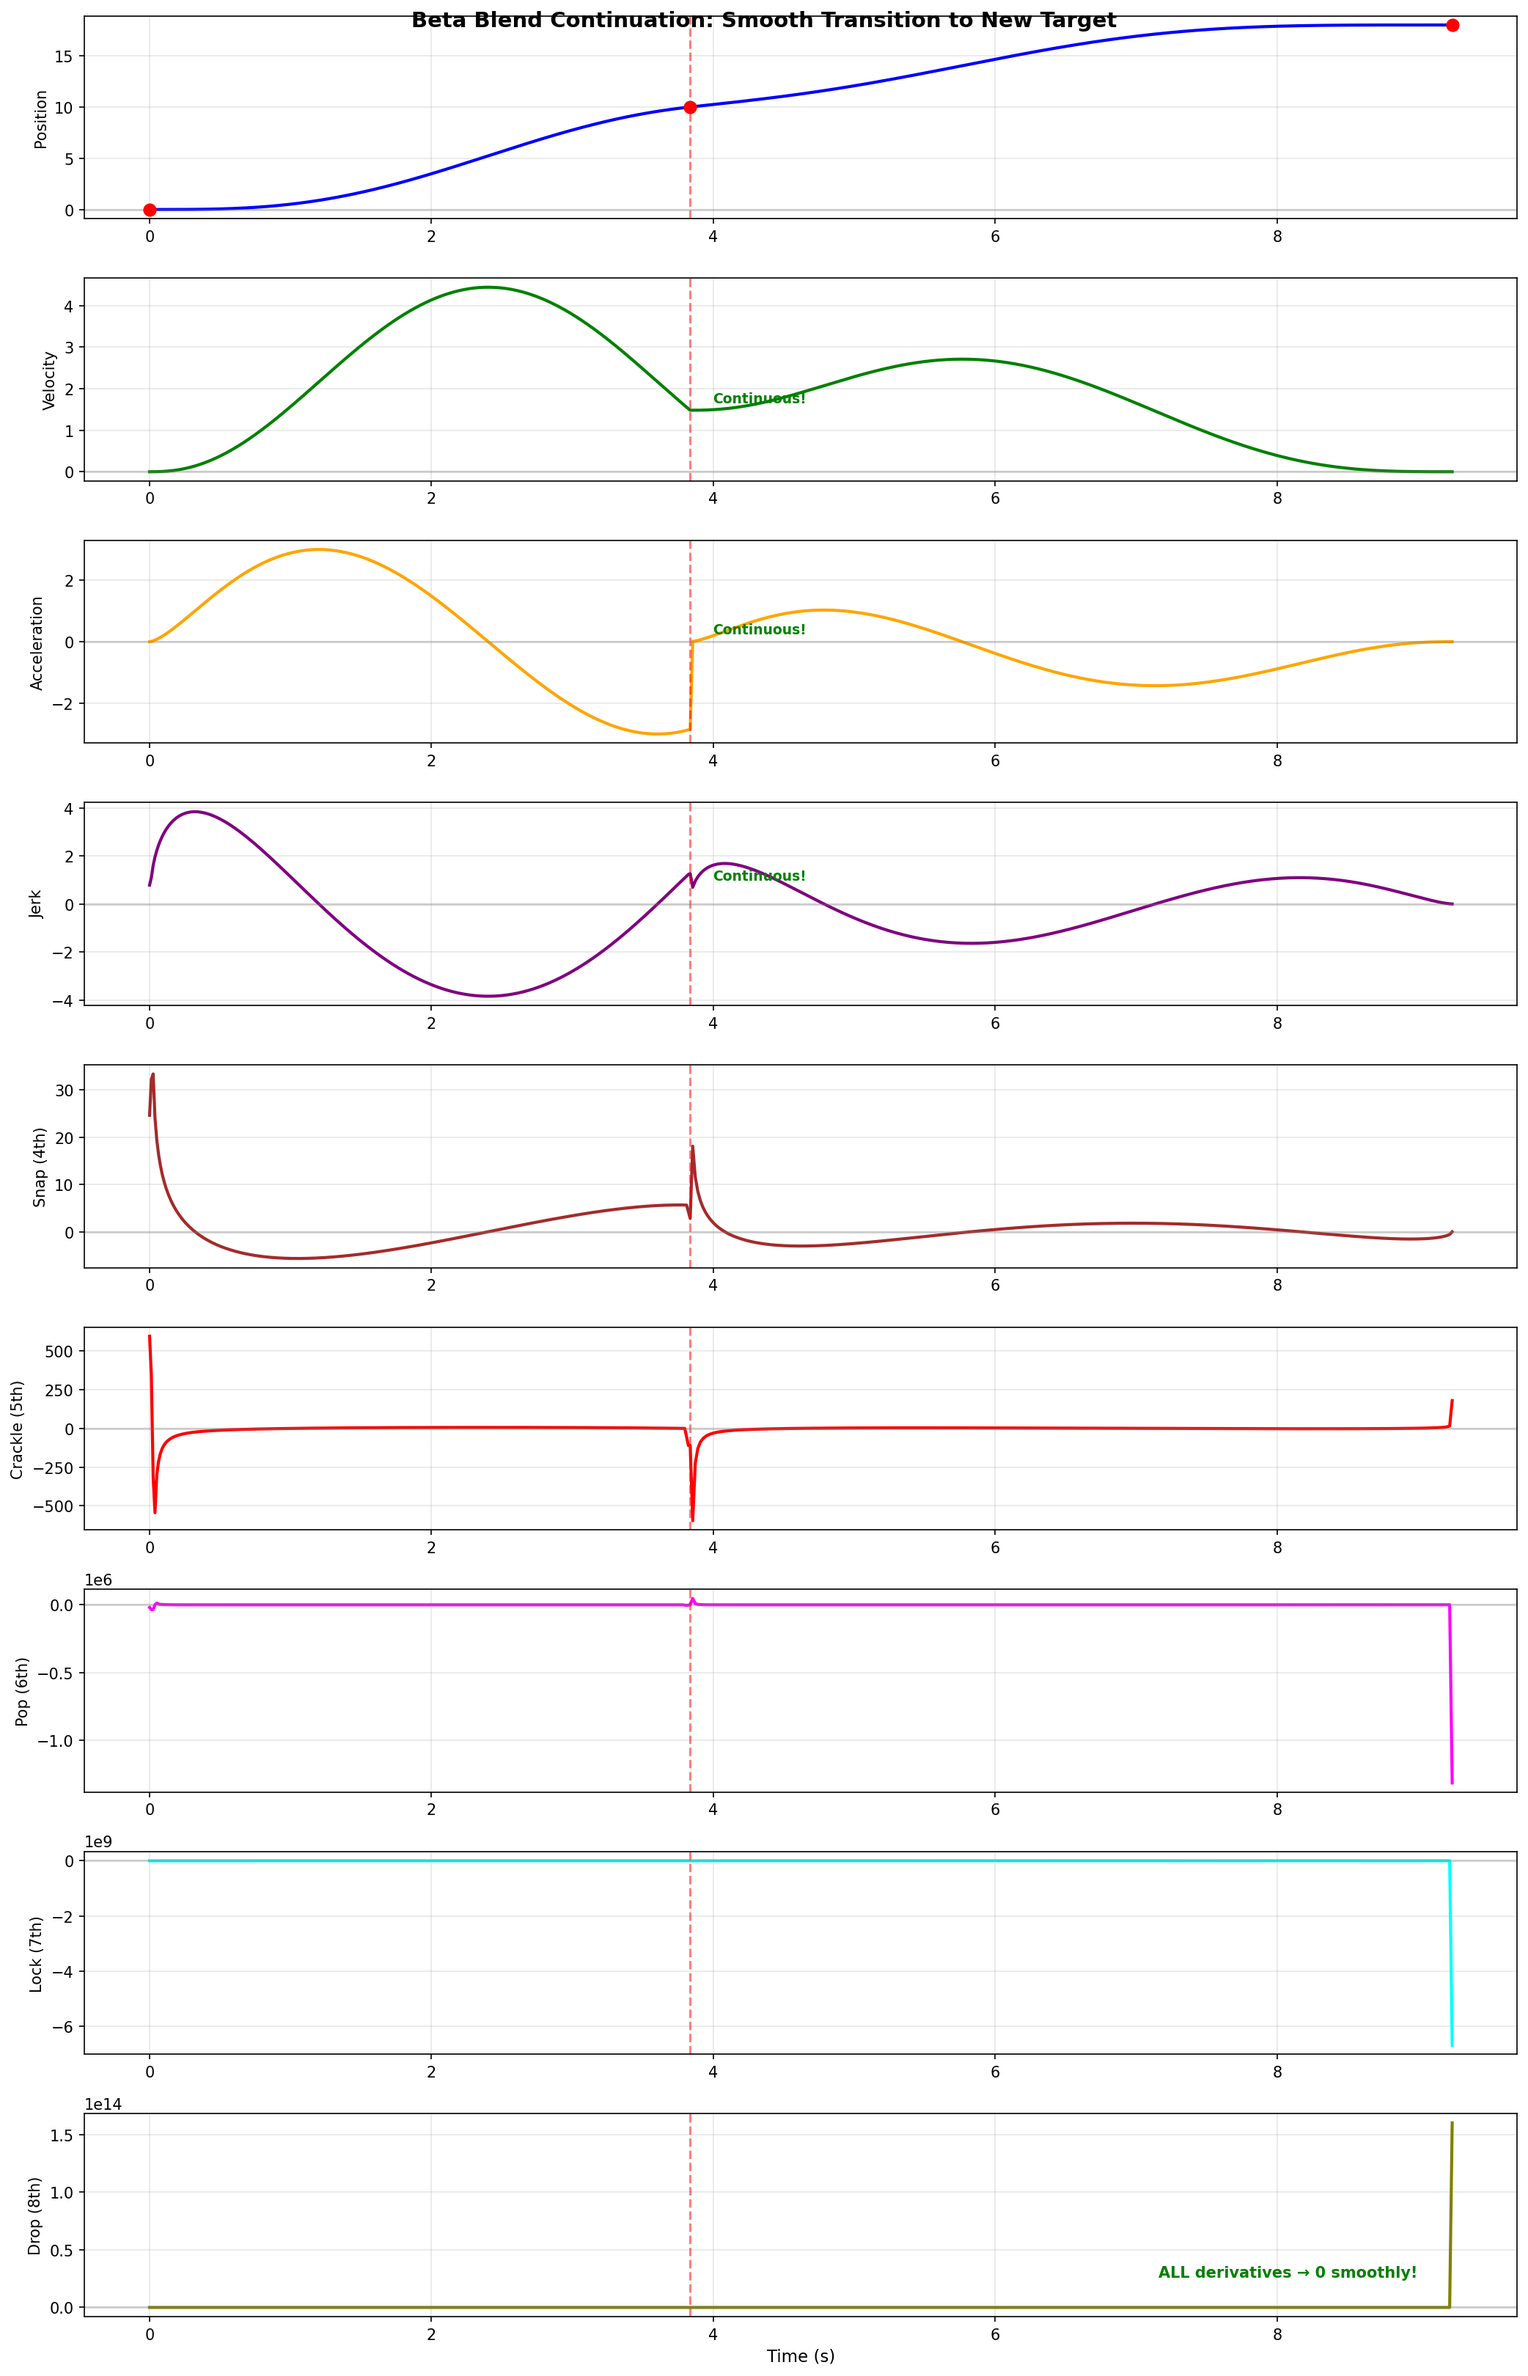
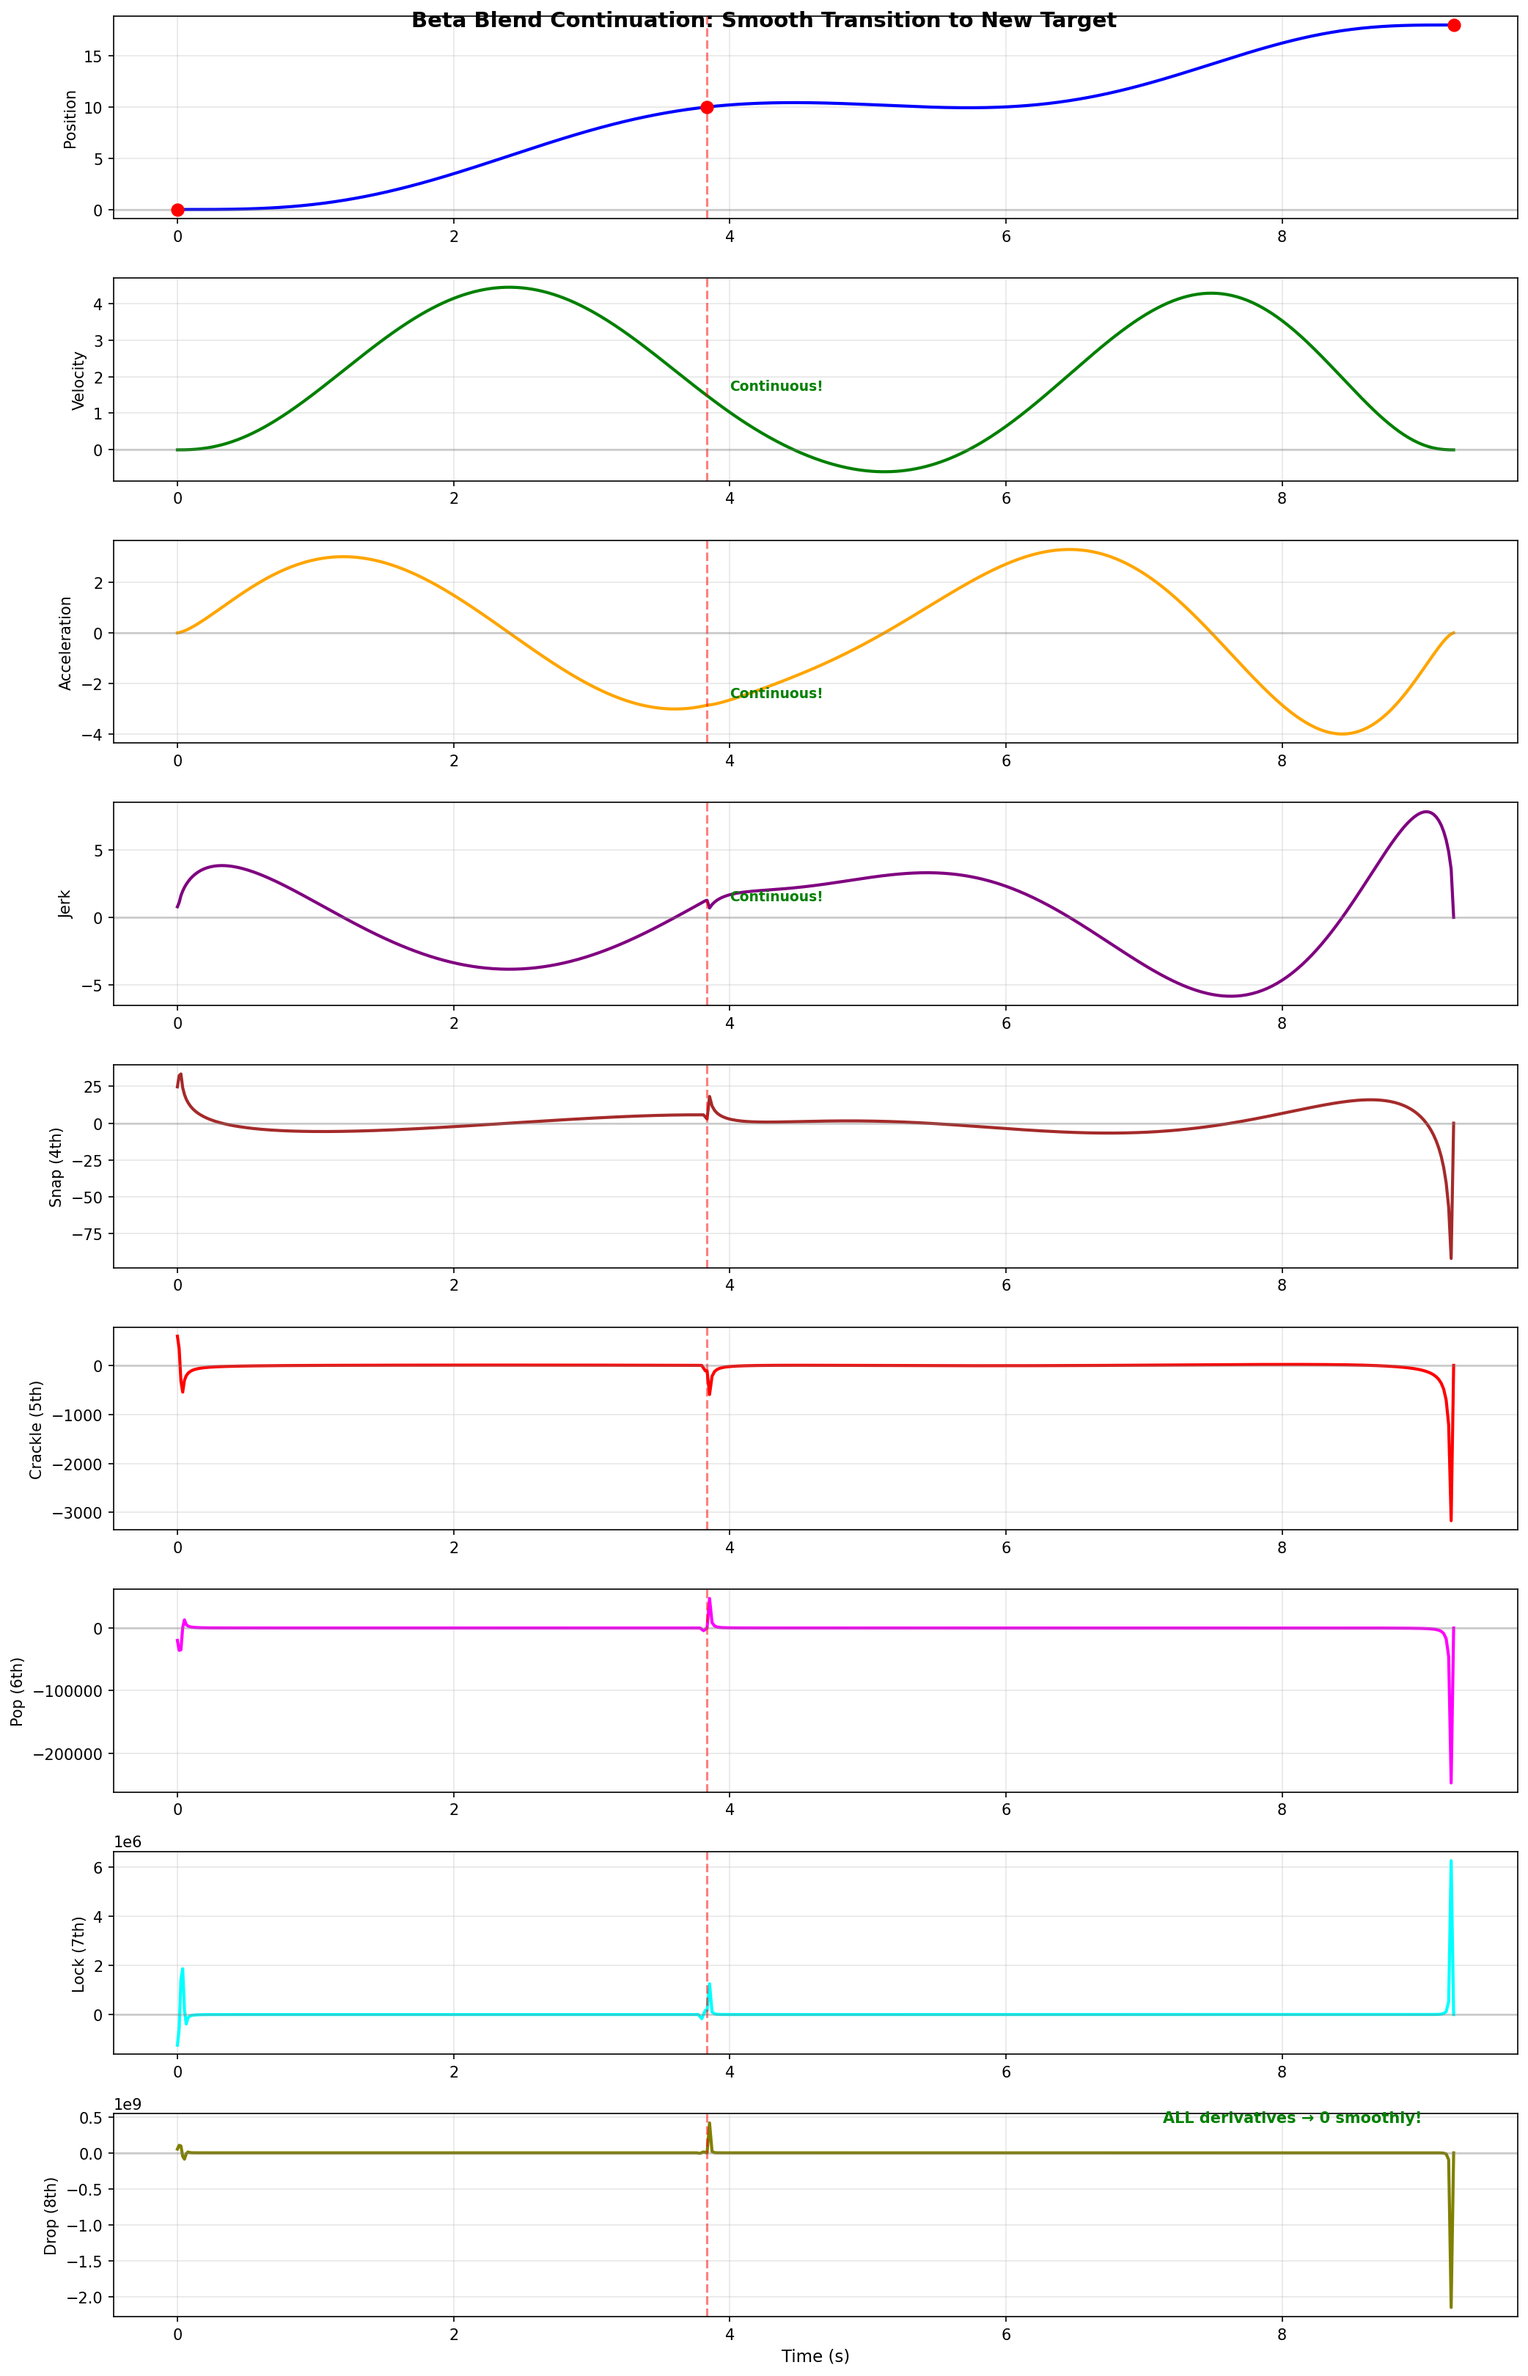
Elegant S-curve blend: x = x_inertial*(1-β) + x_target*β
The key insight: use β to smoothly "turn off" the inertial trajectory
and "turn on" the target position.

Since β has ALL derivatives = 0 at τ=0 and τ=1:
- At t=0: β=0, so x=x_inertial, v=v0, a=a0 (all match exactly!)
- At t=T: β=1, so x=x_target, v=0, a=0 (all exactly zero!)

This gives perfect C∞ continuity with zero velocity/acceleration jump.
Position stays bounded between start and target.

diff --git a/src/scurvebeta/generalized.py b/src/scurvebeta/generalized.py
@@ -1194,57 +1194,105 @@ class BetaBlendMotion:
         self.T = self._find_optimal_T(self.T)
 
     def _find_optimal_T(self, T_initial):
-        """Adjust T to respect velocity and acceleration constraints."""
-        T = T_initial
-        T_max = 15.0  # Reasonable max to prevent T² blowup in trajectory
+        """
+        Find optimal T that respects velocity constraints.
 
-        for iteration in range(10):
+        With the elegant blend formula x = x_inertial*(1-β) + x_target*β,
+        larger T actually makes velocity smaller (smoother transition).
+        So we increase T until velocity is within bounds.
+        """
+        T = T_initial
+
+        # Minimum T based on distance and velocity limit
+        delta_x = abs(self.x_target - self.x0)
+        T_min_v = delta_x / self.robotVmax if self.robotVmax < float('inf') else 0.1
+        T = max(T, T_min_v)
+
+        # Iterate to find T that satisfies velocity constraint
+        for iteration in range(20):
             self.T = T
 
             # Sample to check constraints
             t_samples = np.linspace(0, T, 100)
             v_samples = self.velocity(t_samples)
-            a_samples = self.acceleration(t_samples)
 
             # Check for NaN/Inf
-            if np.any(~np.isfinite(v_samples)) or np.any(~np.isfinite(a_samples)):
-                break
+            if np.any(~np.isfinite(v_samples)):
+                T *= 1.5
+                continue
 
             max_v = np.max(np.abs(v_samples))
-            max_a = np.max(np.abs(a_samples))
 
-            # Scale T to respect constraints (but don't scale up too aggressively)
-            scale = 1.0
-            if np.isfinite(max_v) and max_v > self.robotVmax:
-                scale = max(scale, (max_v / self.robotVmax) ** 0.5)  # Square root for stability
-            if np.isfinite(max_a) and max_a > self.robotAmax:
-                scale = max(scale, (max_a / self.robotAmax) ** 0.25)  # Fourth root for stability
-
-            if scale > 1.01:
-                T = min(T * scale * 1.1, T_max)
-                if T >= T_max:
-                    break
-            else:
+            if max_v <= self.robotVmax * 1.01:
+                # Constraint satisfied
                 break
+            else:
+                # Increase T proportionally
+                T *= (max_v / self.robotVmax)
 
         self.T = T
         return T
+
+    def _inertial_position(self, t):
+        """
+        Compute inertial trajectory: what would happen if we just continued
+        with current velocity and acceleration (and higher derivatives).
+
+        x_inertial(t) = x0 + v0*t + (1/2)*a0*t² + (1/6)*j0*t³ + ...
+        """
+        t = np.asarray(t, dtype=float)
+        result = self.x0 + self.v0 * t + 0.5 * self.a0 * t**2
+        if hasattr(self, 'j0') and self.j0 != 0:
+            result += (1/6) * self.j0 * t**3
+        if hasattr(self, 'snap0') and self.snap0 != 0:
+            result += (1/24) * self.snap0 * t**4
+        return result
+
+    def _inertial_derivative(self, t, order):
+        """Compute derivative of inertial trajectory."""
+        t = np.asarray(t, dtype=float)
+        if order == 0:
+            return self._inertial_position(t)
+        elif order == 1:
+            result = self.v0 + self.a0 * t
+            if hasattr(self, 'j0') and self.j0 != 0:
+                result += 0.5 * self.j0 * t**2
+            return result
+        elif order == 2:
+            result = self.a0 * np.ones_like(t)
+            if hasattr(self, 'j0') and self.j0 != 0:
+                result += self.j0 * t
+            return result
+        elif order == 3:
+            if hasattr(self, 'j0'):
+                return self.j0 * np.ones_like(t)
+            return np.zeros_like(t)
+        else:
+            return np.zeros_like(t)
 
     def _eval_derivative(self, t, order):
         """
         Compute the k-th derivative of position at time t.
 
-        Simple τ-normalized formulation that matches position and velocity only:
-        x(t) = x0 + (x_target - x0) * β(τ) + v0*T * φ₁(τ)
+        Elegant S-curve blend formulation:
+        x(t) = x_inertial(t) * (1 - β(τ)) + x_target * β(τ)
 
         where:
         - τ = t/T ∈ [0,1]
-        - φ₁(τ) = τ*(1-β(τ)) matches velocity at τ=0, goes to 0 at τ=1
+        - β(τ) is the S-curve with ALL derivatives = 0 at τ=0 and τ=1
+        - x_inertial(t) = x0 + v0*t + 0.5*a0*t² + ... is the inertial trajectory
 
-        This avoids the T² blowup from acceleration matching while ensuring:
-        - x(0) = x0, x(T) = x_target
-        - v(0) = v0, v(T) = 0
-        - Smooth S-curve transition
+        The magic: Since β and all its derivatives are 0 at τ=0:
+        - x(0) = x_inertial(0) = x0
+        - v(0) = v_inertial(0) = v0
+        - a(0) = a_inertial(0) = a0
+        - All derivatives match exactly!
+
+        And since β=1 and all derivatives are 0 at τ=1:
+        - x(T) = x_target
+        - v(T) = 0
+        - a(T) = 0
+        - All derivatives are exactly 0!
         """
         t = np.asarray(t, dtype=float)
         scalar = t.ndim == 0
@@ -1256,34 +1304,45 @@ class BetaBlendMotion:
         tau = t / T
 
         # Get β and its derivatives w.r.t. τ
-        beta_derivs = _beta_s_derivatives(tau, max_order=max(k, 1))
+        beta_derivs = _beta_s_derivatives(tau, max_order=k)
         beta = beta_derivs[0]
-        one_minus_beta = 1 - beta
 
-        # Position term: (x_target - x0) * β(τ)
-        dx_target = self.x_target - self.x0
+        # x(t) = x_inertial(t) * (1 - β) + x_target * β
+        # Use Leibniz rule for derivatives of the product
 
         if k == 0:
-            # x(t) = x0 + Δx*β + v0*T*τ*(1-β)
-            result = self.x0 + dx_target * beta + self.v0 * T * tau * one_minus_beta
-        elif k == 1:
-            # v(t) = Δx*β'/T + v0*[(1-β) - τ*β']
-            beta_prime = beta_derivs[1]
-            result = dx_target * beta_prime / T + self.v0 * (one_minus_beta - tau * beta_prime)
-        elif k == 2:
-            # a(t) = Δx*β''/T² + v0*[-2β'/T - τ*β''/T]
-            beta_prime = beta_derivs[1]
-            beta_double_prime = beta_derivs[2] if len(beta_derivs) > 2 else np.zeros_like(tau)
-            result = dx_target * beta_double_prime / (T**2)
-            result += self.v0 * (-2 * beta_prime / T - tau * beta_double_prime / T)
+            x_inertial = self._inertial_position(t)
+            result = x_inertial * (1 - beta) + self.x_target * beta
+
         else:
-            # Higher derivatives via numerical differentiation
-            eps = 1e-5 * T
-            t_p = np.clip(t + eps, 0, T)
-            t_m = np.clip(t - eps, 0, T)
-            deriv_p = self._eval_derivative(t_p, k - 1)
-            deriv_m = self._eval_derivative(t_m, k - 1)
-            result = (deriv_p - deriv_m) / (2 * eps)
+            # d^k/dt^k [x_inertial * (1-β) + x_target * β]
+            # = d^k/dt^k [x_inertial * (1-β)] + x_target * d^k/dt^k [β]
+            #
+            # For x_inertial * (1-β): Use Leibniz rule
+            # For x_target * β: x_target is constant, so just d^k/dt^k [β]
+
+            from math import comb
+
+            result = np.zeros_like(t)
+
+            # Term 1: d^k/dt^k [x_inertial * (1-β)] via Leibniz
+            for i in range(k + 1):
+                x_deriv_i = self._inertial_derivative(t, i)
+                j = k - i  # derivative order for (1-β)
+
+                # d^j/dt^j [(1-β(t/T))] = -d^j/dt^j [β(t/T)] = -(1/T)^j * β^(j)(τ)
+                if j == 0:
+                    one_minus_beta_deriv_j = 1 - beta
+                elif j < len(beta_derivs):
+                    one_minus_beta_deriv_j = -beta_derivs[j] / (T ** j)
+                else:
+                    one_minus_beta_deriv_j = np.zeros_like(tau)
+
+                result += comb(k, i) * x_deriv_i * one_minus_beta_deriv_j
+
+            # Term 2: x_target * d^k/dt^k [β(t/T)] = x_target * (1/T)^k * β^(k)(τ)
+            if k < len(beta_derivs):
+                result += self.x_target * beta_derivs[k] / (T ** k)
 
         return float(result[0]) if scalar else result
 
